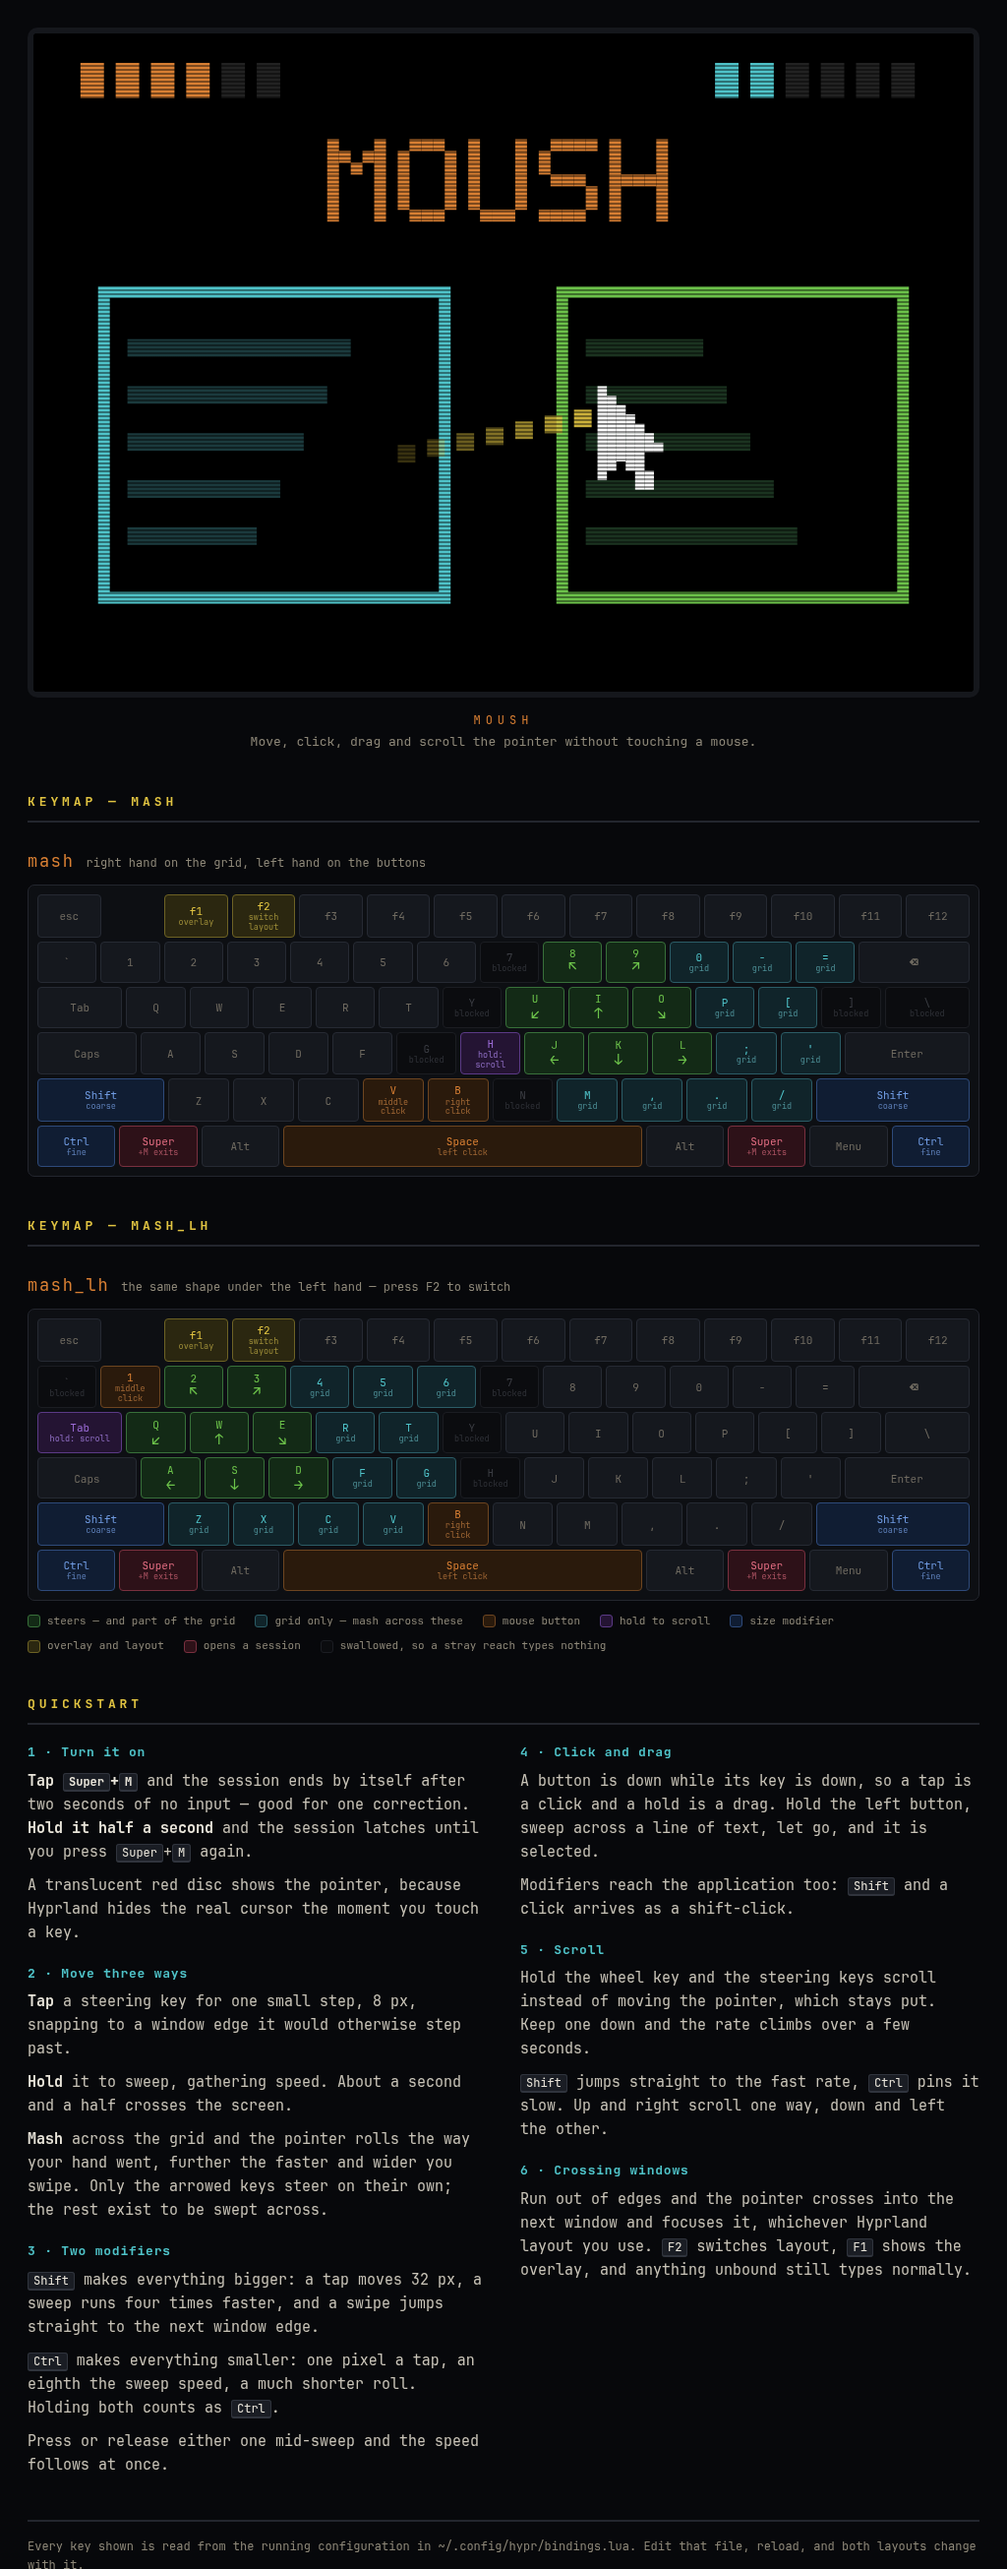
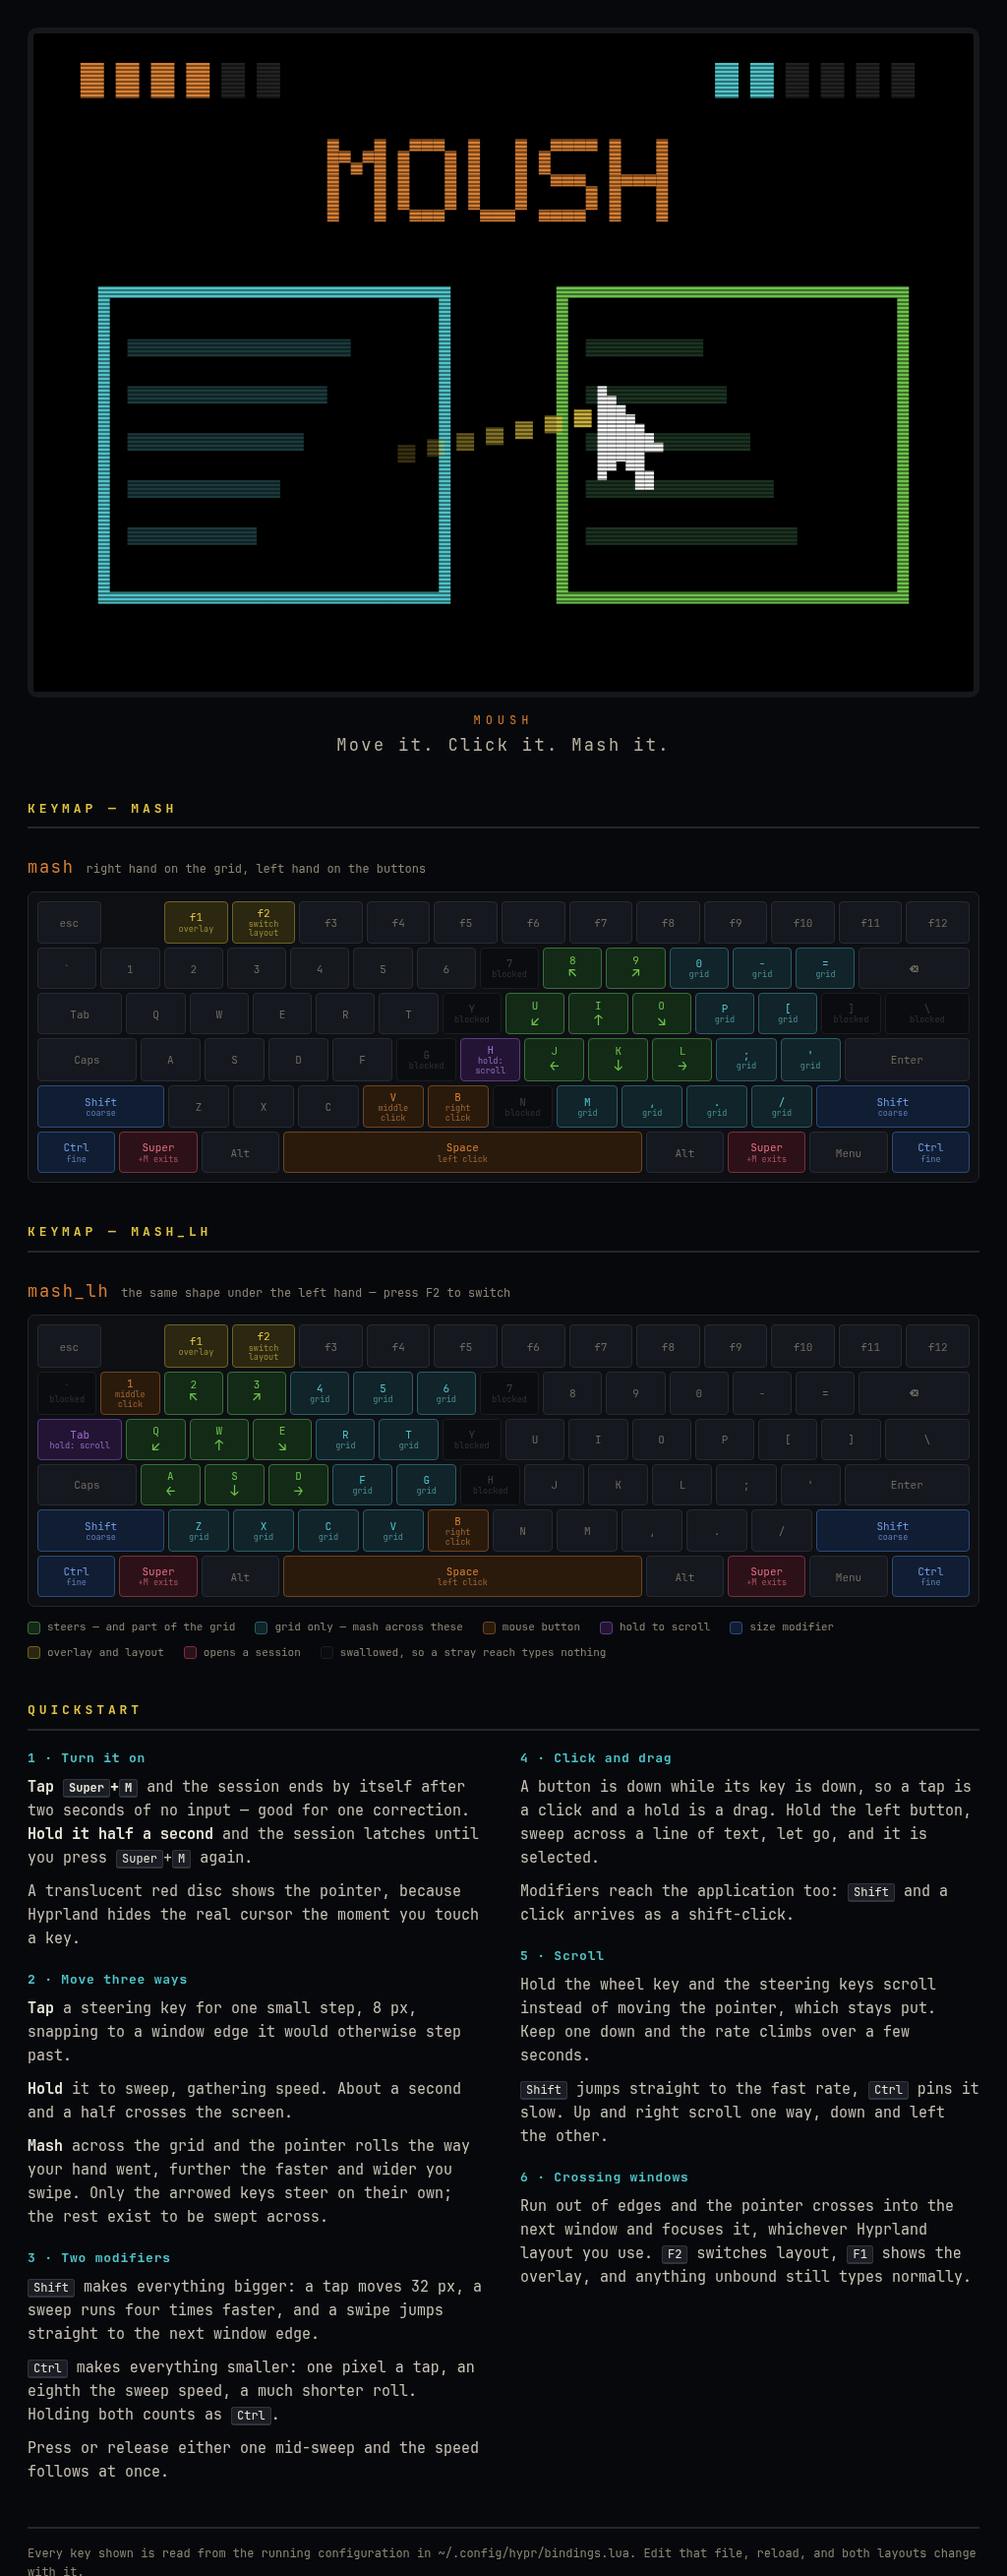
Change the page tagline to "Move it. Click it. Mash it."
The old line listed four verbs and an absence. This one is a rhythm, and it ends on
the word that is actually unusual about Moush.

Given three words rather than a sentence, the line carries more presence: larger and
letterspaced, in a lighter grey, so it reads as a tagline instead of a caption.

docs/moush.png regenerated.

Claude-Session: https://claude.ai/code/session_01QCQs9JcoiEdegEtcQ2pzbD

diff --git a/docs/moush.html b/docs/moush.html
@@ -15,7 +15,8 @@ body{margin:0;background:var(--bg);color:var(--ink);
  background:repeating-linear-gradient(to bottom,rgba(0,0,0,.42) 0 2px,transparent 2px 4px)}
 .tag{text-align:center;color:var(--orange);letter-spacing:.42em;font-size:12px;
  text-transform:uppercase;margin:14px 0 2px}
-.sub{text-align:center;color:var(--dim);font-size:13px;margin:0 0 30px}
+.sub{text-align:center;color:#b9b2a3;font-size:17px;letter-spacing:.14em;
+ margin:0 0 32px}
 h2{font-size:13px;letter-spacing:.3em;text-transform:uppercase;color:var(--yellow);
  border-bottom:2px solid var(--line);padding-bottom:8px;margin:40px 0 18px}
 h3{font-size:13px;color:var(--cyan);margin:0 0 6px;letter-spacing:.06em}
@@ -62,7 +63,7 @@ kbd{background:#1a1d24;border:1px solid #30343d;border-bottom-width:2px;border-r
 
 <div class="screen"><svg class="hero" viewBox="0 0 160 112" preserveAspectRatio="xMidYMid meet"><rect width="160" height="112" fill="#000"/><rect x="8" y="5" width="4" height="6" fill="#d87f33"/><rect x="14" y="5" width="4" height="6" fill="#d87f33"/><rect x="20" y="5" width="4" height="6" fill="#d87f33"/><rect x="26" y="5" width="4" height="6" fill="#d87f33"/><rect x="32" y="5" width="4" height="6" fill="#222"/><rect x="38" y="5" width="4" height="6" fill="#222"/><rect x="116" y="5" width="4" height="6" fill="#4fc3c9"/><rect x="122" y="5" width="4" height="6" fill="#4fc3c9"/><rect x="128" y="5" width="4" height="6" fill="#222"/><rect x="134" y="5" width="4" height="6" fill="#222"/><rect x="140" y="5" width="4" height="6" fill="#222"/><rect x="146" y="5" width="4" height="6" fill="#222"/><rect x="50" y="18" width="2" height="2" fill="#d87f33"/><rect x="58" y="18" width="2" height="2" fill="#d87f33"/><rect x="50" y="20" width="2" height="2" fill="#d87f33"/><rect x="52" y="20" width="2" height="2" fill="#d87f33"/><rect x="56" y="20" width="2" height="2" fill="#d87f33"/><rect x="58" y="20" width="2" height="2" fill="#d87f33"/><rect x="50" y="22" width="2" height="2" fill="#d87f33"/><rect x="54" y="22" width="2" height="2" fill="#d87f33"/><rect x="58" y="22" width="2" height="2" fill="#d87f33"/><rect x="50" y="24" width="2" height="2" fill="#d87f33"/><rect x="58" y="24" width="2" height="2" fill="#d87f33"/><rect x="50" y="26" width="2" height="2" fill="#d87f33"/><rect x="58" y="26" width="2" height="2" fill="#d87f33"/><rect x="50" y="28" width="2" height="2" fill="#d87f33"/><rect x="58" y="28" width="2" height="2" fill="#d87f33"/><rect x="50" y="30" width="2" height="2" fill="#d87f33"/><rect x="58" y="30" width="2" height="2" fill="#d87f33"/><rect x="64" y="18" width="2" height="2" fill="#d87f33"/><rect x="66" y="18" width="2" height="2" fill="#d87f33"/><rect x="68" y="18" width="2" height="2" fill="#d87f33"/><rect x="62" y="20" width="2" height="2" fill="#d87f33"/><rect x="70" y="20" width="2" height="2" fill="#d87f33"/><rect x="62" y="22" width="2" height="2" fill="#d87f33"/><rect x="70" y="22" width="2" height="2" fill="#d87f33"/><rect x="62" y="24" width="2" height="2" fill="#d87f33"/><rect x="70" y="24" width="2" height="2" fill="#d87f33"/><rect x="62" y="26" width="2" height="2" fill="#d87f33"/><rect x="70" y="26" width="2" height="2" fill="#d87f33"/><rect x="62" y="28" width="2" height="2" fill="#d87f33"/><rect x="70" y="28" width="2" height="2" fill="#d87f33"/><rect x="64" y="30" width="2" height="2" fill="#d87f33"/><rect x="66" y="30" width="2" height="2" fill="#d87f33"/><rect x="68" y="30" width="2" height="2" fill="#d87f33"/><rect x="74" y="18" width="2" height="2" fill="#d87f33"/><rect x="82" y="18" width="2" height="2" fill="#d87f33"/><rect x="74" y="20" width="2" height="2" fill="#d87f33"/><rect x="82" y="20" width="2" height="2" fill="#d87f33"/><rect x="74" y="22" width="2" height="2" fill="#d87f33"/><rect x="82" y="22" width="2" height="2" fill="#d87f33"/><rect x="74" y="24" width="2" height="2" fill="#d87f33"/><rect x="82" y="24" width="2" height="2" fill="#d87f33"/><rect x="74" y="26" width="2" height="2" fill="#d87f33"/><rect x="82" y="26" width="2" height="2" fill="#d87f33"/><rect x="74" y="28" width="2" height="2" fill="#d87f33"/><rect x="82" y="28" width="2" height="2" fill="#d87f33"/><rect x="76" y="30" width="2" height="2" fill="#d87f33"/><rect x="78" y="30" width="2" height="2" fill="#d87f33"/><rect x="80" y="30" width="2" height="2" fill="#d87f33"/><rect x="88" y="18" width="2" height="2" fill="#d87f33"/><rect x="90" y="18" width="2" height="2" fill="#d87f33"/><rect x="92" y="18" width="2" height="2" fill="#d87f33"/><rect x="94" y="18" width="2" height="2" fill="#d87f33"/><rect x="86" y="20" width="2" height="2" fill="#d87f33"/><rect x="86" y="22" width="2" height="2" fill="#d87f33"/><rect x="88" y="24" width="2" height="2" fill="#d87f33"/><rect x="90" y="24" width="2" height="2" fill="#d87f33"/><rect x="92" y="24" width="2" height="2" fill="#d87f33"/><rect x="94" y="26" width="2" height="2" fill="#d87f33"/><rect x="94" y="28" width="2" height="2" fill="#d87f33"/><rect x="86" y="30" width="2" height="2" fill="#d87f33"/><rect x="88" y="30" width="2" height="2" fill="#d87f33"/><rect x="90" y="30" width="2" height="2" fill="#d87f33"/><rect x="92" y="30" width="2" height="2" fill="#d87f33"/><rect x="98" y="18" width="2" height="2" fill="#d87f33"/><rect x="106" y="18" width="2" height="2" fill="#d87f33"/><rect x="98" y="20" width="2" height="2" fill="#d87f33"/><rect x="106" y="20" width="2" height="2" fill="#d87f33"/><rect x="98" y="22" width="2" height="2" fill="#d87f33"/><rect x="106" y="22" width="2" height="2" fill="#d87f33"/><rect x="98" y="24" width="2" height="2" fill="#d87f33"/><rect x="100" y="24" width="2" height="2" fill="#d87f33"/><rect x="102" y="24" width="2" height="2" fill="#d87f33"/><rect x="104" y="24" width="2" height="2" fill="#d87f33"/><rect x="106" y="24" width="2" height="2" fill="#d87f33"/><rect x="98" y="26" width="2" height="2" fill="#d87f33"/><rect x="106" y="26" width="2" height="2" fill="#d87f33"/><rect x="98" y="28" width="2" height="2" fill="#d87f33"/><rect x="106" y="28" width="2" height="2" fill="#d87f33"/><rect x="98" y="30" width="2" height="2" fill="#d87f33"/><rect x="106" y="30" width="2" height="2" fill="#d87f33"/><rect x="12" y="44" width="58" height="52" fill="none" stroke="#4fc3c9" stroke-width="2"/><rect x="90" y="44" width="58" height="52" fill="none" stroke="#6cc24a" stroke-width="2"/><rect x="16" y="52" width="38" height="3" fill="#1b3a3d"/><rect x="94" y="52" width="20" height="3" fill="#1b3320"/><rect x="16" y="60" width="34" height="3" fill="#1b3a3d"/><rect x="94" y="60" width="24" height="3" fill="#1b3320"/><rect x="16" y="68" width="30" height="3" fill="#1b3a3d"/><rect x="94" y="68" width="28" height="3" fill="#1b3320"/><rect x="16" y="76" width="26" height="3" fill="#1b3a3d"/><rect x="94" y="76" width="32" height="3" fill="#1b3320"/><rect x="16" y="84" width="22" height="3" fill="#1b3a3d"/><rect x="94" y="84" width="36" height="3" fill="#1b3320"/><rect x="62" y="70" width="3" height="3" fill="#e0c341" opacity="0.25"/><rect x="67" y="69" width="3" height="3" fill="#e0c341" opacity="0.36"/><rect x="72" y="68" width="3" height="3" fill="#e0c341" opacity="0.47"/><rect x="77" y="67" width="3" height="3" fill="#e0c341" opacity="0.58"/><rect x="82" y="66" width="3" height="3" fill="#e0c341" opacity="0.69"/><rect x="87" y="65" width="3" height="3" fill="#e0c341" opacity="0.80"/><rect x="92" y="64" width="3" height="3" fill="#e0c341" opacity="0.91"/><rect x="96" y="60" width="1.6" height="1.6" fill="#fff"/><rect x="96" y="61.6" width="1.6" height="1.6" fill="#fff"/><rect x="97.6" y="61.6" width="1.6" height="1.6" fill="#fff"/><rect x="96" y="63.2" width="1.6" height="1.6" fill="#fff"/><rect x="97.6" y="63.2" width="1.6" height="1.6" fill="#fff"/><rect x="99.2" y="63.2" width="1.6" height="1.6" fill="#fff"/><rect x="96" y="64.8" width="1.6" height="1.6" fill="#fff"/><rect x="97.6" y="64.8" width="1.6" height="1.6" fill="#fff"/><rect x="99.2" y="64.8" width="1.6" height="1.6" fill="#fff"/><rect x="100.8" y="64.8" width="1.6" height="1.6" fill="#fff"/><rect x="96" y="66.4" width="1.6" height="1.6" fill="#fff"/><rect x="97.6" y="66.4" width="1.6" height="1.6" fill="#fff"/><rect x="99.2" y="66.4" width="1.6" height="1.6" fill="#fff"/><rect x="100.8" y="66.4" width="1.6" height="1.6" fill="#fff"/><rect x="102.4" y="66.4" width="1.6" height="1.6" fill="#fff"/><rect x="96" y="68" width="1.6" height="1.6" fill="#fff"/><rect x="97.6" y="68" width="1.6" height="1.6" fill="#fff"/><rect x="99.2" y="68" width="1.6" height="1.6" fill="#fff"/><rect x="100.8" y="68" width="1.6" height="1.6" fill="#fff"/><rect x="102.4" y="68" width="1.6" height="1.6" fill="#fff"/><rect x="104" y="68" width="1.6" height="1.6" fill="#fff"/><rect x="96" y="69.6" width="1.6" height="1.6" fill="#fff"/><rect x="97.6" y="69.6" width="1.6" height="1.6" fill="#fff"/><rect x="99.2" y="69.6" width="1.6" height="1.6" fill="#fff"/><rect x="100.8" y="69.6" width="1.6" height="1.6" fill="#fff"/><rect x="102.4" y="69.6" width="1.6" height="1.6" fill="#fff"/><rect x="104" y="69.6" width="1.6" height="1.6" fill="#fff"/><rect x="105.6" y="69.6" width="1.6" height="1.6" fill="#fff"/><rect x="96" y="71.2" width="1.6" height="1.6" fill="#fff"/><rect x="97.6" y="71.2" width="1.6" height="1.6" fill="#fff"/><rect x="99.2" y="71.2" width="1.6" height="1.6" fill="#fff"/><rect x="100.8" y="71.2" width="1.6" height="1.6" fill="#fff"/><rect x="102.4" y="71.2" width="1.6" height="1.6" fill="#fff"/><rect x="96" y="72.8" width="1.6" height="1.6" fill="#fff"/><rect x="97.6" y="72.8" width="1.6" height="1.6" fill="#fff"/><rect x="100.8" y="72.8" width="1.6" height="1.6" fill="#fff"/><rect x="102.4" y="72.8" width="1.6" height="1.6" fill="#fff"/><rect x="96" y="74.4" width="1.6" height="1.6" fill="#fff"/><rect x="102.4" y="74.4" width="1.6" height="1.6" fill="#fff"/><rect x="104" y="74.4" width="1.6" height="1.6" fill="#fff"/><rect x="102.4" y="76" width="1.6" height="1.6" fill="#fff"/><rect x="104" y="76" width="1.6" height="1.6" fill="#fff"/></svg></div>
 <div class="tag">Moush</div>
-<p class="sub">Move, click, drag and scroll the pointer without touching a mouse.</p>
+<p class="sub">Move it. Click it. Mash it.</p>
 
 <h2>Keymap &mdash; mash</h2>
 <div class="modename"><span class="n">mash</span>

diff --git a/tools/genpage.py b/tools/genpage.py
@@ -204,7 +204,8 @@ body{margin:0;background:var(--bg);color:var(--ink);
  background:repeating-linear-gradient(to bottom,rgba(0,0,0,.42) 0 2px,transparent 2px 4px)}
 .tag{text-align:center;color:var(--orange);letter-spacing:.42em;font-size:12px;
  text-transform:uppercase;margin:14px 0 2px}
-.sub{text-align:center;color:var(--dim);font-size:13px;margin:0 0 30px}
+.sub{text-align:center;color:#b9b2a3;font-size:17px;letter-spacing:.14em;
+ margin:0 0 32px}
 h2{font-size:13px;letter-spacing:.3em;text-transform:uppercase;color:var(--yellow);
  border-bottom:2px solid var(--line);padding-bottom:8px;margin:40px 0 18px}
 h3{font-size:13px;color:var(--cyan);margin:0 0 6px;letter-spacing:.06em}
@@ -251,7 +252,7 @@ kbd{background:#1a1d24;border:1px solid #30343d;border-bottom-width:2px;border-r
 
 <div class="screen">@@HERO@@</div>
 <div class="tag">Moush</div>
-<p class="sub">Move, click, drag and scroll the pointer without touching a mouse.</p>
+<p class="sub">Move it. Click it. Mash it.</p>
 
 <h2>Keymap &mdash; mash</h2>
 <div class="modename"><span class="n">mash</span>
